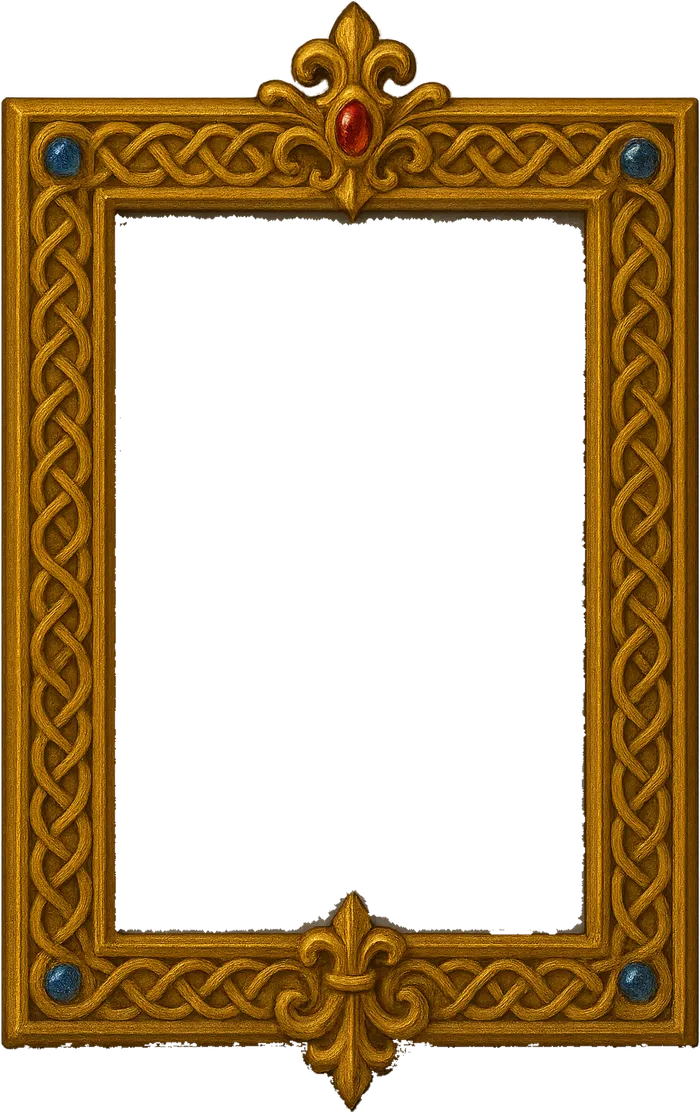
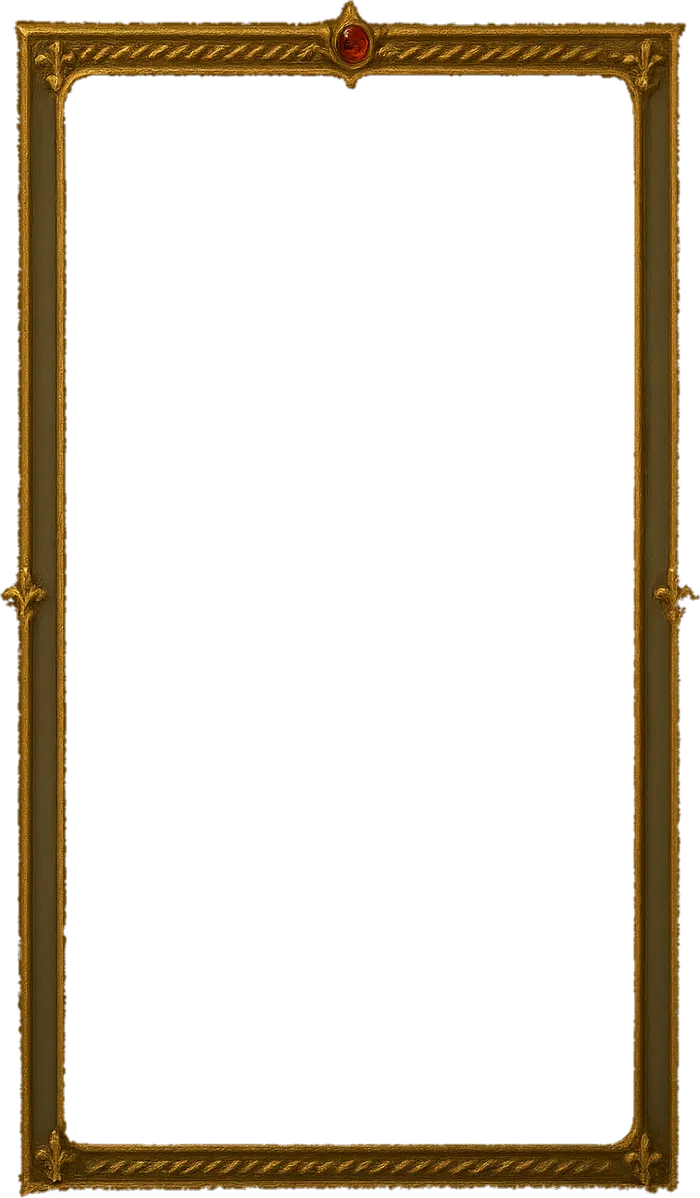
Offer frame: thin rail frame — the fat one squished everything (Tyler)
- public/ui/offer-frame.webp regenerated from concepts/offer-frame-thin-1.png
  with sharp: outer matte removed by a texture-OR-low-chroma border flood plus
  a depth-capped guarded erosion for the shadow fringe (bright gold rails wall
  both), fake checkerboard window keyed by low-chroma center flood + 2px
  dilation + 1px alpha feather, cropped to ornament bounds, 700px webp q80
  (~78KB, was 209KB).
- Window insets re-measured from the new pixels: L/R 9.5%, T 6.3% (crest dips
  to 7.4% at center), B 4.4% — content area goes from ~65% to ~80% of modal
  width. Modal widened to min(398px, 94vw, dvh cap): 3-card slate now renders
  102px/card at 430px viewports (was ~77px), 90px on a 375px phone.
- Content vertically centers in the taller thin-frame window (my-auto wrapper,
  collapses when overflowing so scroll still works). Parchment fill, entrance
  animation, gold glint, UPGRADE banner + delta copy all kept.

Claude-Session: https://claude.ai/code/session_016oZSBo9hTPU7GLvfDyFz7e

diff --git a/components/run/AbilityOfferModal.tsx b/components/run/AbilityOfferModal.tsx
@@ -116,15 +116,16 @@ export function AbilityOfferModal({
       `}</style>
       <div className="fixed inset-0 z-50 flex items-center justify-center bg-[#12222b]/80 backdrop-blur-sm px-3 py-4">
         {/* Painted gold frame (public/ui/offer-frame.webp, prepped from
-            concepts/offer-frame-1.png). The box is letterboxed to the
-            frame's own aspect so the painting never distorts; content sits
-            inside the frame's window (insets measured from the pixels:
-            L 16.7% / R 16.6% / T 19.4% / B 16.1%, padded a touch inward). */}
+            concepts/offer-frame-thin-1.png — slender double rail, ruby crest).
+            The box is letterboxed to the frame's own aspect so the painting
+            never distorts; content sits inside the frame's window (insets
+            measured from the pixels: L 9.5% / R 9.5% / T 6.3% rail with the
+            crest dipping to 7.4% at center / B 4.4%, padded a touch inward). */}
         <div
           className="offer-frame-enter relative"
           style={{
-            width: 'min(370px, 94vw, calc((100dvh - 2rem) * 0.6293))',
-            aspectRatio: '905 / 1438',
+            width: 'min(398px, 94vw, calc((100dvh - 2rem) * 0.5843))',
+            aspectRatio: '783 / 1340',
             filter: 'drop-shadow(0 0 16px rgba(255, 191, 36, 0.45)) drop-shadow(0 16px 32px rgba(0,0,0,0.45))',
           }}
         >
@@ -134,19 +135,22 @@ export function AbilityOfferModal({
             aria-hidden
             className="absolute rounded-[10px]"
             style={{
-              left: '15.7%',
-              right: '15.6%',
-              top: '18.4%',
-              bottom: '15.1%',
+              left: '8.5%',
+              right: '8.5%',
+              top: '5.3%',
+              bottom: '3.4%',
               background: 'linear-gradient(180deg, #faf4e4, #f3e9d2)',
             }}
           />
 
           {/* Content — lives inside the frame's window. */}
           <div
-            className="absolute z-10 flex flex-col gap-2 overflow-y-auto overflow-x-hidden"
-            style={{ left: '17.4%', right: '17.3%', top: '20.2%', bottom: '16.9%' }}
+            className="absolute z-10 flex flex-col overflow-y-auto overflow-x-hidden"
+            style={{ left: '10%', right: '10%', top: '8.6%', bottom: '5.2%' }}
           >
+            {/* my-auto centers the slate in the tall thin-frame window;
+                collapses to 0 when the content overflows so scroll still works. */}
+            <div className="my-auto flex flex-col gap-2">
             <div className="text-center px-0.5">
               <h2 className="text-[15px] font-black text-chess-text leading-tight">
                 {title ?? (isLevel ? 'One rook can’t do this alone. Take something.' : 'Tempo full. Upgrade Rookie.')}
@@ -269,6 +273,7 @@ export function AbilityOfferModal({
                 Skip (½ tempo back)
               </button>
             )}
+            </div>
           </div>
 
           {/* The painting itself — above the content, clicks pass through. */}
